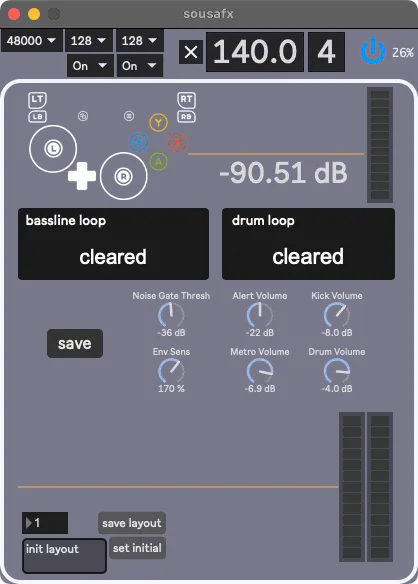
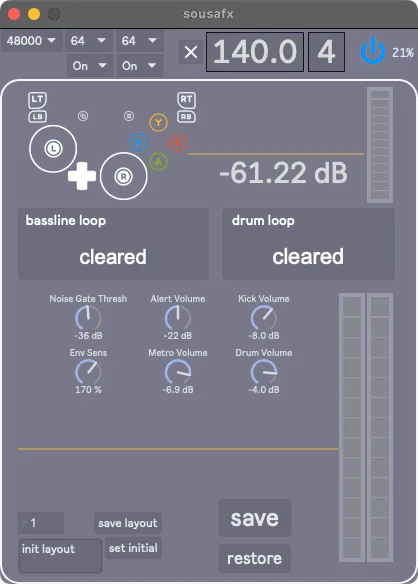
fresh screenshots, polished docs

Changed region(s): [[0.0, 0.0308, 1.0, 1.0], [0.5287, 0.2774, 0.7464, 0.3082]]

diff --git a/docs/overview.md b/docs/overview.md
@@ -4,6 +4,8 @@
 
 ![main](img/main_window.webp)
 
+Closing this window quits SousaFX.
+
 ### Status Bar
 
 The menus on the top left adjust the audio engine's settings, including the sample rate, signal vector size, I/O vector size, Overdrive, and Interrupt, which should be set to 48000, < 128, < 128, On, and On, respectively.
@@ -22,7 +24,7 @@ To the top left of the white box, is the game controller input display.
 
 To the right are the input volume meters. 
 
-Below are the Looper Status displays for the tuba bassline looper, drum looper, and synth looper. The synth is currently not connected, but will be in a later version.
+Below are the Looper Status displays for the tuba bassline looper, and drum looper.
 
 | color     | status 	|
 |-----------|-----------|
@@ -40,10 +42,6 @@ Below are the Looper Status displays for the tuba bassline looper, drum looper, 
 - Env Sens
 
 	Sets the main envelope sensitivity, which should generally be around 180%
-
-- Synth Volume
-
-	The synth is disconnected at the moment.
 
 - Metro Volume
 
@@ -75,7 +73,7 @@ On the bottom right is a way to save window layouts. Click the number box and pr
 
 The following windows may be opened via the FX Parameters menu:
 
-- Bassline Effects
+- Bassline
 
 - Compressors and Limiters
 
@@ -84,7 +82,7 @@ The following windows may be opened via the FX Parameters menu:
 - Reverbs
 
 
-## Bassline Effects
+## Bassline
 
 ![wah](img/autowah_params.webp)
 
@@ -213,10 +211,6 @@ This window displays two limiters and six compressors
 - solo
 
 	This compressor is for the tuba solo, which only occurs while the bassline looper is looping.
-
-- synth
-
-	Currently disconnected.
 
 - final
 

diff --git a/docs/installation.md b/docs/installation.md
@@ -7,7 +7,22 @@
 		SousaFX remains fully functional after [Max’s 30-day trial ends](https://support.cycling74.com/hc/en-us/articles/360049995834-Max-8-Max-7-Authorization#link-2). Max authorization is not required.
 	<br>
 
-2. Download [SousaFX](https://github.com/Sousastep/SousaFX-rnbo/releases) to your `~/Documents/Max 9/Projects/` folder, then double-click `SousaFX-rnbo.maxproj` to launch the rig.
+2. Click on "menubar > Max > Preferences..."
+
+	![main](img/max_prefs.webp)
+
+	- Set the Audio Input Device and Output Device to the connected audio interface.
+	- Set the Sampling Rate to 48000
+	- Set the two Vector Sizes to 64.
+	- Enable Overdrive and Scheduler in Audio Interrupt.
+	- Click the "Audio I/O Mappings" button on the bottom left, to the left of the speaker button.
+	- Set Input Mapping 1 to the tuba's mic.
+	- Set Output Mapping 1-2 to the speaker outputs, and 3-4 to the monitor/headphone outputs.
+
+		![main](img/max_iomap.webp)
+
+
+3. Download [SousaFX](https://github.com/Sousastep/SousaFX-rnbo/releases) to your `~/Documents/Max 9/Projects/` folder, then double-click `SousaFX-rnbo.maxproj` to launch the rig.
 
 	!!! note
 

diff --git a/docs/index.md b/docs/index.md
@@ -4,7 +4,7 @@
 
 SousaFX is a multi-effects rig made with [Max/RNBO](https://cycling74.com/products/rnbo), which uses a game controller attached to the side of the tuba to control a number of audio effects, including:
 
-- A dubstep-style [auto-wah](overview.md#bassline-effects) with many facets tuned specifically for tuba.
+- A dubstep-style [auto-wah](overview.md#bassline) with many facets tuned specifically for tuba.
 - Two one-button [loopers](loopers.md), one for the bassline and one for the drum machine.
 - TimeLagAccumulator-style filter delays.
 - Reversible stutters with acceleration via a phase-locked loop.

diff --git a/docs/documentation.md b/docs/documentation.md
@@ -1,0 +1,11 @@
+# Documentation
+
+While any window is active, pressing option+d or option+h will open the relevant section in the documentation window. Windows can be opened via the "FX Parameters" menu in the menubar.
+
+While mousing over the gamepad input display, looper statuses, or layout saver in the main sousafx window, pressing opt+d/h will open those sections respectively.
+
+![main](img/documentation_window.webp)
+
+
+
+

diff --git a/.github/readme.md b/.github/readme.md
@@ -33,3 +33,8 @@ git push origin --all
 ```
 OFFLINE=true mkdocs build --clean --site-dir /Users/jbaylies/Documents/Max\ 8/Projects/SousaFX-rnbo/.docs 
 ```
+
+### convert
+```
+for f in *.png; do cwebp "$f" -o "${f%.png}.webp"; done
+```
